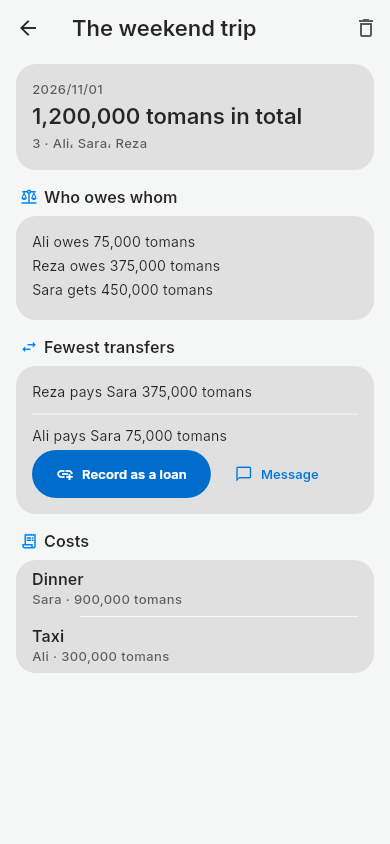
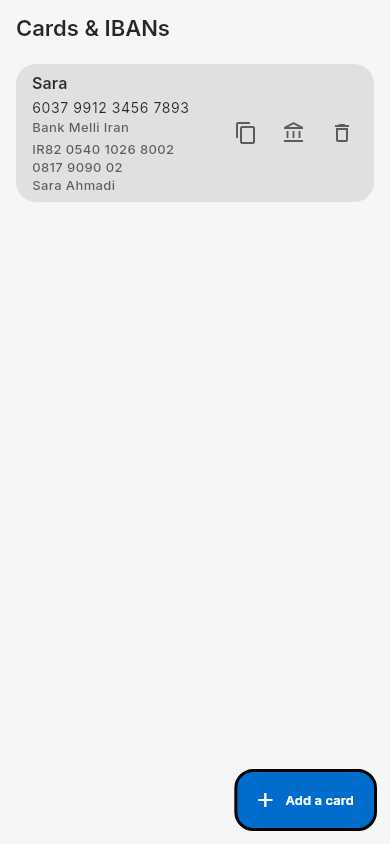
Capture the card book on its own screen
The review test reused one MaterialApp across captures, so the pushed split
screen stayed on top and the card-book PNG was a duplicate. Each screen now
starts from a fresh tree, and the card book is captured for both themes.

🤖 Generated with Codebuff

diff --git a/apps/client/test/modules/lent_borrowed/upgrade_review_test.dart b/apps/client/test/modules/lent_borrowed/upgrade_review_test.dart
@@ -115,6 +115,10 @@ void main() {
         }
 
         Future<void> show(Widget home) async {
+          // A fresh tree each time: a MaterialApp kept across pumps would keep
+          // its Navigator, and a pushed screen would still be on top when the
+          // next "home" is captured.
+          await tester.pumpWidget(const SizedBox());
           await tester.pumpWidget(
             RepaintBoundary(
               key: boundary,
